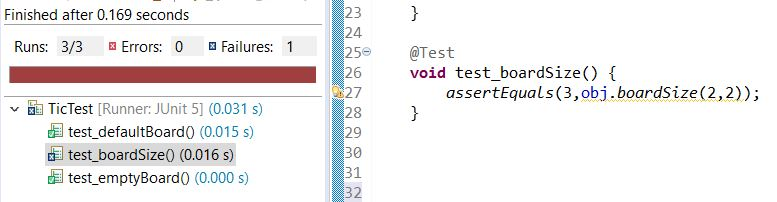
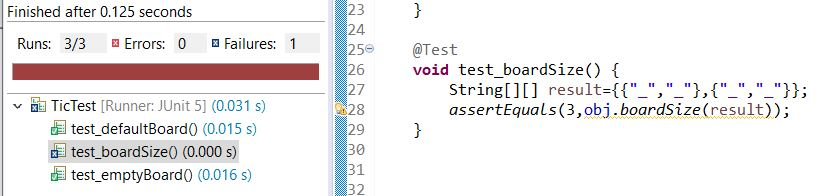
Commit 5 - test_boardSize() - fail

diff --git a/Lab04/tic_java/src/Tic.java b/Lab04/tic_java/src/Tic.java
@@ -27,9 +27,9 @@ public class Tic {
 		return board;
 	}
 	
-	public static int boardSize(int h, int k){
+	public static int boardSize(String b[][]){
 		
-		return h*k;
+		return (b.length)*(b[0].length);
 	}
 	
 	

diff --git a/Lab04/tic_java/test/TicTest.java b/Lab04/tic_java/test/TicTest.java
@@ -21,7 +21,8 @@ class TicTest {
 	
 	@Test
 	void test_boardSize() {
-	    assertEquals(4,obj.boardSize(2,2));
+		String[][] result={{"_","_"},{"_","_"}};
+	    assertEquals(3,obj.boardSize(result));
 	}
 	
 }
